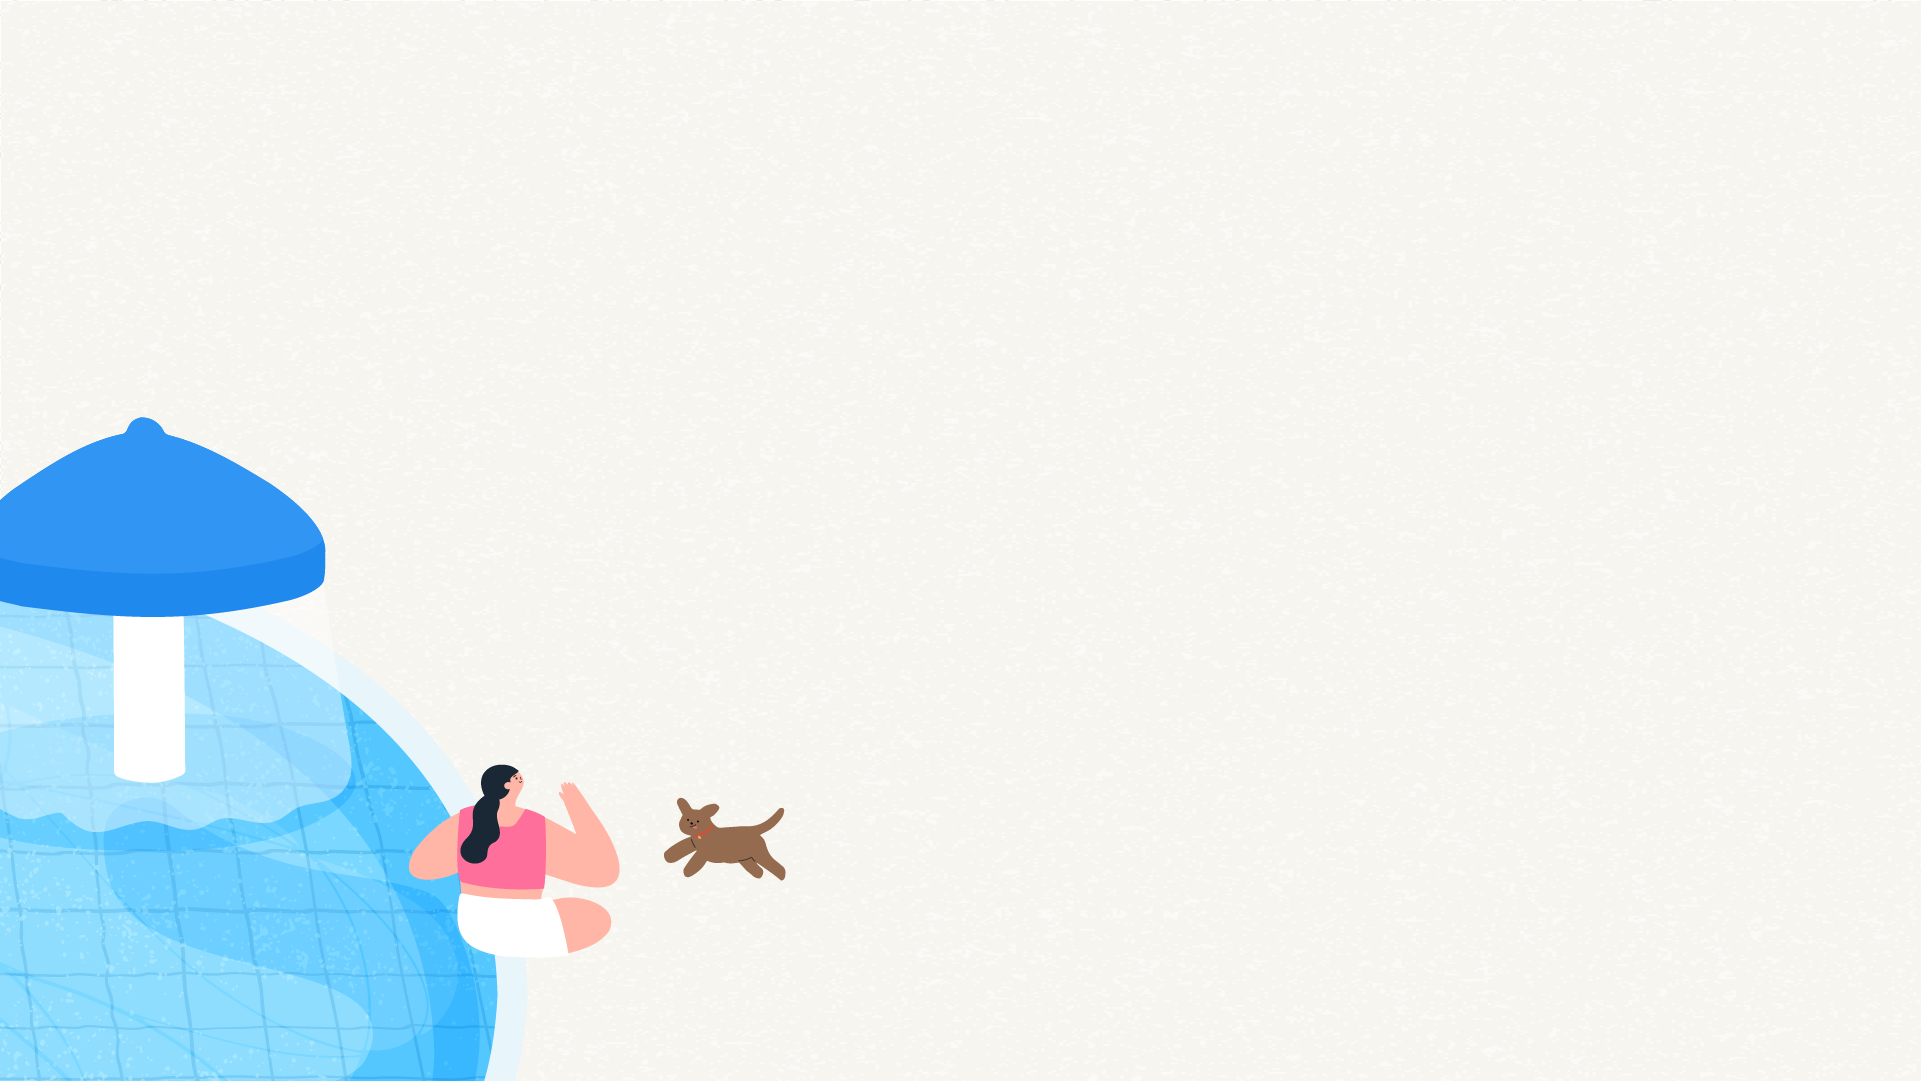
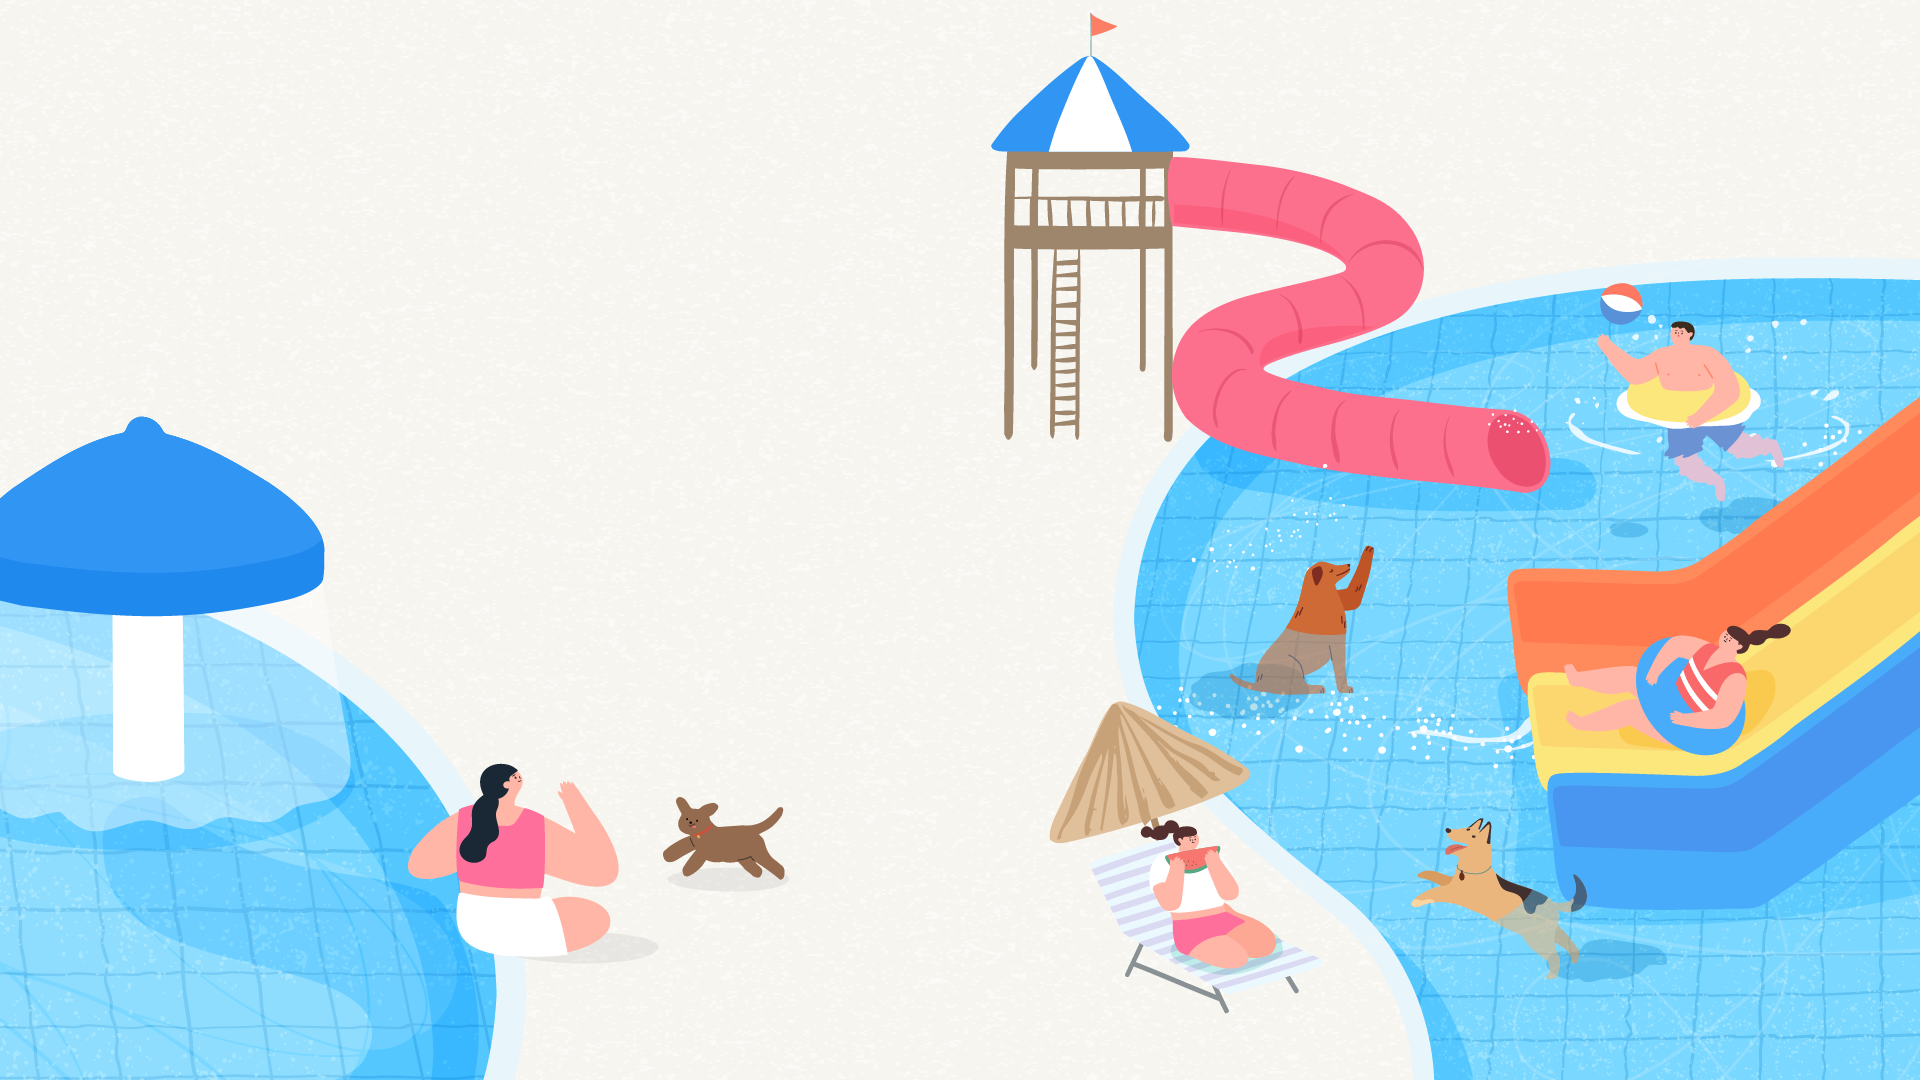
0908-1751-p
1. 桌機版-活動頁banner修改完成

Changed region(s): [[0.5, 0.0611, 1.0, 1.0], [0.5625, 0.0, 0.5938, 0.0306]]

diff --git a/penny/Events_Page.html b/penny/Events_Page.html
@@ -29,7 +29,7 @@
         <div class="events-banner-col col-lg-6">
             <div class="events-banner-special">
                 <div class="events-banner-special-textbox">
-                    <h3>PACKAGE EVENTS</h3>
+                    <h3>SPECIAL EVENTS</h3>
                     <h2>每月特別活動</h2>
                     <p>每月有配合節慶的活動外，還有專業動物醫學講師開班舉辦講座課程，快帶家中毛孩來參加並留下美好回憶吧！</p>
                     <div class="events-banner-special-btn">
@@ -58,7 +58,7 @@
         <div class="banner-package-pc-box">
             <div class="banner-package-pc">
                 <div class="events-banner-package-textbox">
-                    <h3>PACKAGE EVENTS</h3>
+                    <h3>SPECIAL EVENTS</h3>
                     <h2>浪浪套裝活動</h2>
                     <p>歡迎你來到N.A.P.園區，尋找你命定的另一「伴」！<span> N.A.P.透過各種活動與知識課程，</span>讓你與浪浪們在兩日的相處下能透過活動更加的了解彼此。</p>
                     <div class="events-banner-package-btn">
@@ -75,20 +75,14 @@
 
 <script src="./js_p/jquery-3.6.0.min.js"></script>
     <script>
-        // $(".banner-special-pc").mousemove(function (e) { 
-        // const picWidth = $(".banner-package-pc-box");
-        // const wrapWid = $(".banner-special-pc").width();
-        // let mouseNow = (e.offsetX / wrapWid) * 250;
-        // console.log(mouseNow);
-        // picWidth.css("width", 100 - mouseNow + "%");
-        // });
-         
-        $('.banner-special-pc').mouseenter(function(){
-            $('.banner-package-pc-box').css('width', 10+'%');
-        })
-        $('.banner-special-pc').mouseleave(function(){
-            $('.banner-package-pc-box').css('width', 90+'%');
-        })
+        $("html").mousemove(function(e){
+            if(e.pageX >=960 ){
+                $('.banner-package-pc-box').css('width', 0+'%')
+            }
+            if(e.pageX <= 960){
+                $('.banner-package-pc-box').css('width', 100+'%');
+            }
+        })        
 
         
 

diff --git a/penny/css_p/Events_Page..css b/penny/css_p/Events_Page..css
@@ -179,7 +179,7 @@ body{
         position: relative;
     }
     .events-banner-ai01-imgbox{
-        display: block;
+        display: none;
         width: 45%;
         position: absolute;
         top: 82%;
@@ -259,6 +259,9 @@ body{
         background-color: var(--primaryColor_dark);
         color: var(--white);
     }
+    .events-banner-package-btn a:hover{
+        background-color: var(--primaryColor_light);
+    }
 
     /* 每月特別活動 | 桌機版 */
     .banner-special-pc{
@@ -314,6 +317,9 @@ body{
         border-radius: 30px;
         background-color: var(--secondaryColor_default);
         color: var(--white);
+    }
+    .events-banner-special-btn a:hover{
+        background-color: #d6b07f;
     }
 
 }
